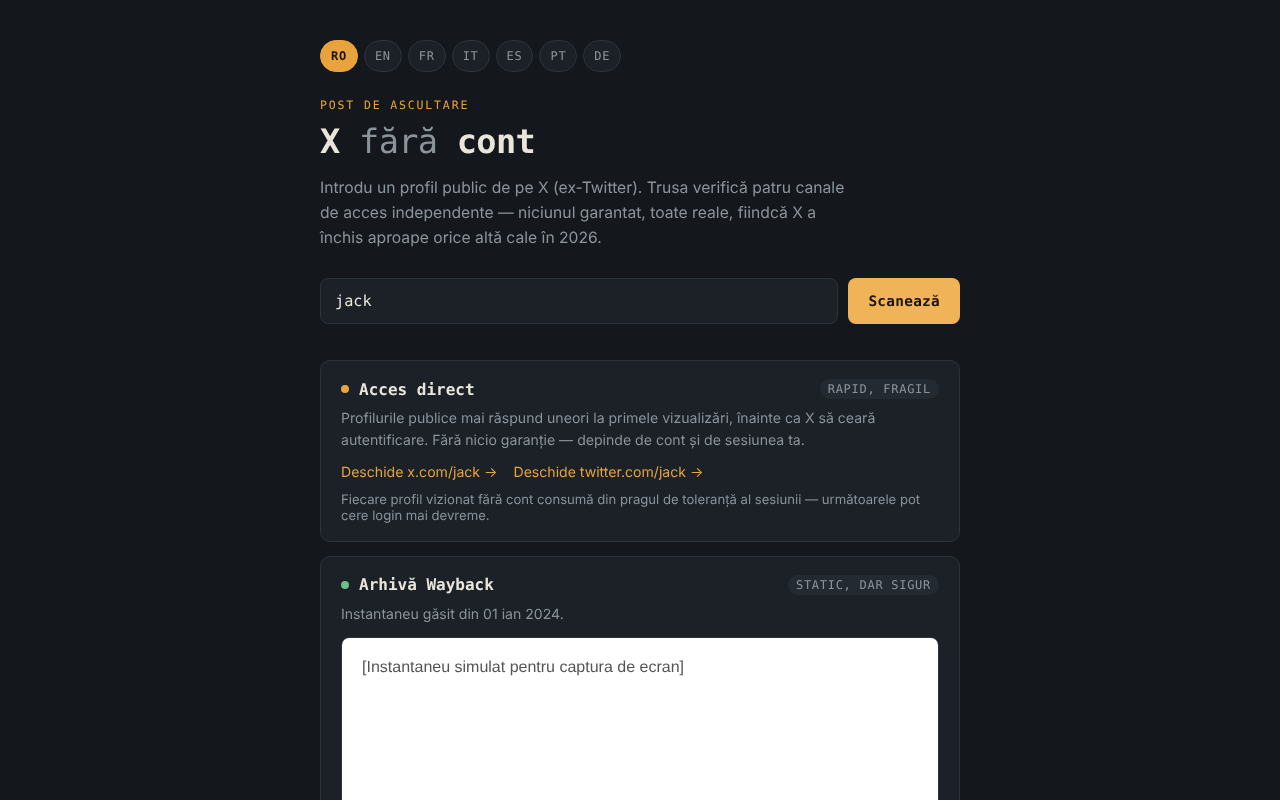
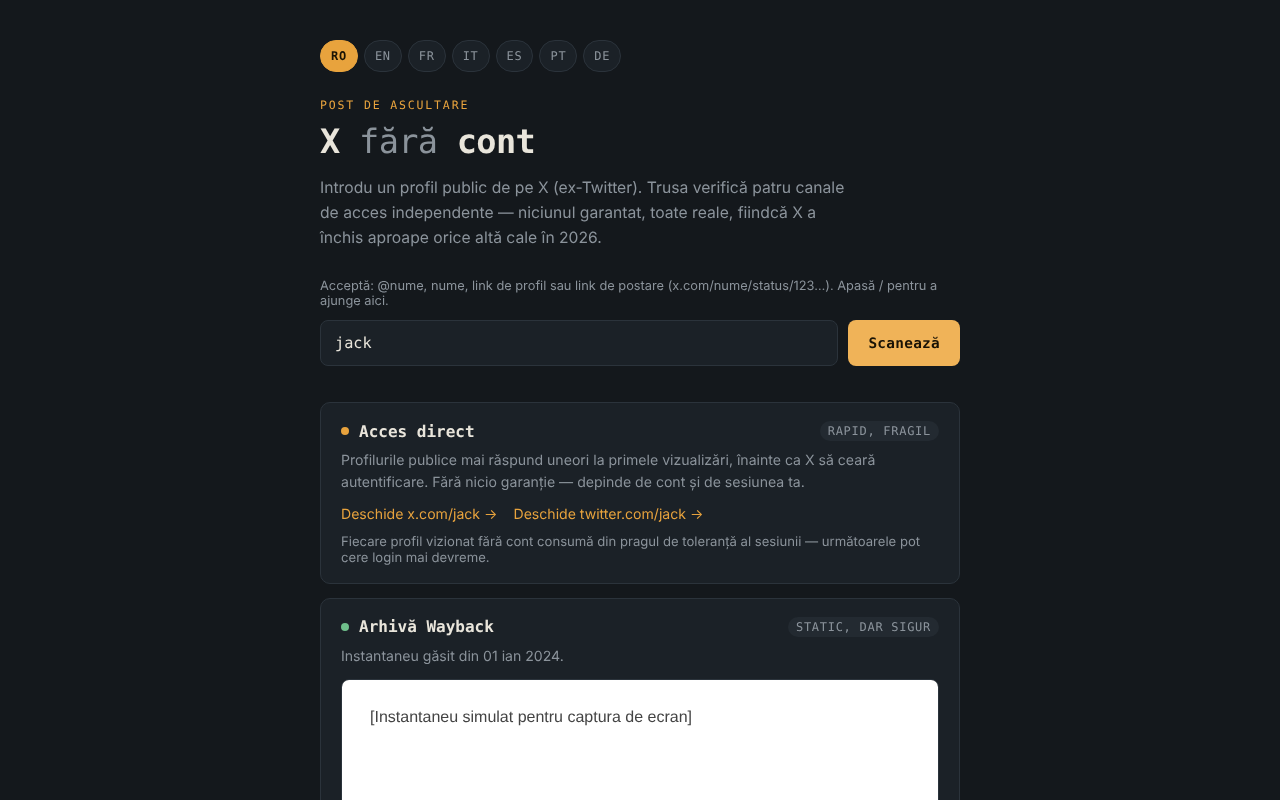
Runda 6 (11 octombrie 2026): reparații și îmbunătățiri
Claude-Session: https://claude.ai/code/session_01D2sCEb3hy3nutYexhUfQFs

Changed region(s): [[0.25, 0.3438, 0.75, 0.9062], [0.625, 0.7188, 0.7188, 0.75]]

diff --git a/index.html b/index.html
@@ -11,7 +11,7 @@
 <meta charset="UTF-8">
 <meta name="viewport" content="width=device-width, initial-scale=1.0">
 <meta name="color-scheme" content="dark">
-<meta http-equiv="Content-Security-Policy" content="default-src 'none'; script-src 'unsafe-inline'; style-src 'unsafe-inline'; connect-src https://archive.org https://web.archive.org; frame-src https://web.archive.org https://*.archive.org; base-uri 'none'; form-action 'none'">
+<meta http-equiv="Content-Security-Policy" content="default-src 'none'; script-src 'sha256-JCEZe5mm+Ku1JaV1E7NoF3UU0oDtzWo3bZGD6wNI0ZM='; style-src 'unsafe-inline'; connect-src https://archive.org https://web.archive.org; frame-src https://web.archive.org https://*.archive.org; base-uri 'none'; form-action 'none'">
 <meta name="referrer" content="no-referrer">
 <meta name="description" content="Set de unelte pentru vizualizarea profilurilor publice X (ex-Twitter) fără cont: link direct, arhivă Wayback, index de căutare, oglinzi Nitter. 7 limbi, un singur fișier HTML, fără telemetrie.">
 <meta property="og:title" content="X fără cont — post de ascultare">
@@ -102,6 +102,7 @@
     max-width: 54ch;
   }
 
+  .inputhint { font-size: 0.8rem; color: var(--text-muted); margin: 0 0 12px; }
   .tuner { display: flex; gap: 10px; margin-bottom: 36px; }
 
   .tuner input {
@@ -283,6 +284,7 @@
       <p class="lede" id="txtLede"></p>
     </header>
 
+    <p class="inputhint" id="txtInputHint"></p>
     <form class="tuner" id="tunerForm">
       <label for="handleInput" class="visually-hidden" id="txtInputLabel"></label>
       <input type="text" id="handleInput" autocomplete="off" autocapitalize="off" spellcheck="false" maxlength="200" aria-describedby="handleError">
@@ -744,7 +746,7 @@
     return "ro";
   }
 
-  var state = { lang: detectLang(), handle: "", archiveStatus: "idle", archiveSnap: null };
+  var state = { lang: detectLang(), handle: "", status: "", archiveStatus: "idle", archiveSnap: null };
 
   var langbar = document.getElementById("langbar");
   var form = document.getElementById("tunerForm");
@@ -793,32 +795,40 @@
   var txtWhyP1 = document.getElementById("txtWhyP1");
   var txtWhyP2 = document.getElementById("txtWhyP2");
   var txtFooter = document.getElementById("txtFooter");
+  var txtInputHint = document.getElementById("txtInputHint");
 
   var EXTRA = {
-    ro: { invalid: "Nume de profil invalid. Folosește 1–15 litere, cifre sau _ (ex. @nume).", error: "Nu am putut interoga archive.org (rețea indisponibilă sau răspuns neașteptat). Poți încerca direct în Wayback Machine." },
-    en: { invalid: "Invalid profile name. Use 1–15 letters, digits or _ (e.g. @name).", error: "Could not query archive.org (network unavailable or unexpected reply). You can try the Wayback Machine directly." },
-    fr: { invalid: "Nom de profil invalide. Utilisez 1 à 15 lettres, chiffres ou _ (ex. @nom).", error: "Impossible d'interroger archive.org (réseau indisponible ou réponse inattendue). Vous pouvez essayer directement la Wayback Machine." },
-    it: { invalid: "Nome profilo non valido. Usa da 1 a 15 lettere, cifre o _ (es. @nome).", error: "Impossibile interrogare archive.org (rete non disponibile o risposta inattesa). Puoi provare direttamente la Wayback Machine." },
-    es: { invalid: "Nombre de perfil no válido. Usa de 1 a 15 letras, cifras o _ (p. ej. @nombre).", error: "No se pudo consultar archive.org (red no disponible o respuesta inesperada). Puedes probar directamente la Wayback Machine." },
-    pt: { invalid: "Nome de perfil inválido. Use de 1 a 15 letras, dígitos ou _ (ex. @nome).", error: "Não foi possível consultar o archive.org (rede indisponível ou resposta inesperada). Podes tentar diretamente a Wayback Machine." },
-    de: { invalid: "Ungültiger Profilname. Verwende 1–15 Buchstaben, Ziffern oder _ (z. B. @name).", error: "archive.org konnte nicht abgefragt werden (Netzwerk nicht verfügbar oder unerwartete Antwort). Du kannst die Wayback Machine direkt versuchen." }
+    ro: { inputHint: "Acceptă: @nume, nume, link de profil sau link de postare (x.com/nume/status/123…). Apasă / pentru a ajunge aici.", allCaptures: "Toate capturile arhivate →", notFoundPost: "Nicio arhivă găsită pentru această postare. Poți cere una chiar tu, mai jos.", invalid: "Nume de profil invalid. Folosește 1–15 litere, cifre sau _ (ex. @nume).", error: "Nu am putut interoga archive.org (rețea indisponibilă sau răspuns neașteptat). Poți încerca direct în Wayback Machine." },
+    en: { inputHint: "Accepts: @name, name, a profile link or a post link (x.com/name/status/123…). Press / to jump here.", allCaptures: "All archived captures →", notFoundPost: "No archive found for this post. You can request one yourself, below.", invalid: "Invalid profile name. Use 1–15 letters, digits or _ (e.g. @name).", error: "Could not query archive.org (network unavailable or unexpected reply). You can try the Wayback Machine directly." },
+    fr: { inputHint: "Accepté : @nom, nom, lien de profil ou lien de publication (x.com/nom/status/123…). Appuyez sur / pour venir ici.", allCaptures: "Toutes les captures archivées →", notFoundPost: "Aucune archive trouvée pour cette publication. Vous pouvez en demander une vous-même, ci-dessous.", invalid: "Nom de profil invalide. Utilisez 1 à 15 lettres, chiffres ou _ (ex. @nom).", error: "Impossible d'interroger archive.org (réseau indisponible ou réponse inattendue). Vous pouvez essayer directement la Wayback Machine." },
+    it: { inputHint: "Accettati: @nome, nome, link del profilo o link di un post (x.com/nome/status/123…). Premi / per arrivare qui.", allCaptures: "Tutte le copie archiviate →", notFoundPost: "Nessun archivio trovato per questo post. Puoi richiederne uno tu stesso, qui sotto.", invalid: "Nome profilo non valido. Usa da 1 a 15 lettere, cifre o _ (es. @nome).", error: "Impossibile interrogare archive.org (rete non disponibile o risposta inattesa). Puoi provare direttamente la Wayback Machine." },
+    es: { inputHint: "Se acepta: @nombre, nombre, enlace de perfil o enlace de publicación (x.com/nombre/status/123…). Pulsa / para venir aquí.", allCaptures: "Todas las capturas archivadas →", notFoundPost: "No se encontró ningún archivo de esta publicación. Puedes solicitar uno tú mismo, abajo.", invalid: "Nombre de perfil no válido. Usa de 1 a 15 letras, cifras o _ (p. ej. @nombre).", error: "No se pudo consultar archive.org (red no disponible o respuesta inesperada). Puedes probar directamente la Wayback Machine." },
+    pt: { inputHint: "Aceita: @nome, nome, ligação de perfil ou ligação de publicação (x.com/nome/status/123…). Prime / para vir aqui.", allCaptures: "Todas as capturas arquivadas →", notFoundPost: "Nenhum arquivo encontrado para esta publicação. Podes pedir um tu mesmo, abaixo.", invalid: "Nome de perfil inválido. Use de 1 a 15 letras, dígitos ou _ (ex. @nome).", error: "Não foi possível consultar o archive.org (rede indisponível ou resposta inesperada). Podes tentar diretamente a Wayback Machine." },
+    de: { inputHint: "Akzeptiert: @name, name, Profil-Link oder Post-Link (x.com/name/status/123…). Mit / springst du hierher.", allCaptures: "Alle archivierten Schnappschüsse →", notFoundPost: "Kein Archiv für diesen Beitrag gefunden. Du kannst unten selbst eines anfordern.", invalid: "Ungültiger Profilname. Verwende 1–15 Buchstaben, Ziffern oder _ (z. B. @name).", error: "archive.org konnte nicht abgefragt werden (Netzwerk nicht verfügbar oder unerwartete Antwort). Du kannst die Wayback Machine direkt versuchen." }
   };
 
-  // Returns a valid X handle ([A-Za-z0-9_]{1,15}) or "" if input is empty/invalid.
-  function extractHandle(raw) {
+  // Names that are X site sections, not profiles.
+  var RESERVED = /^(i|home|explore|search|hashtag|notifications|messages|settings|login|logout|signup|intent|share|compose|tos|privacy|about|download|jobs|account|oauth|en|ro|fr|it|es|pt|de)$/i;
+
+  // Returns {handle, status} (handle = [A-Za-z0-9_]{1,15}; status = digits or "") or null if invalid.
+  function extractTarget(raw) {
     var s = (raw || "").trim();
-    if (!s) return "";
+    if (!s) return null;
+    var status = "";
     if (/^(https?:\/\/)?((www|mobile)\.)?(x|twitter)\.com\//i.test(s) || /^https?:\/\//i.test(s)) {
       try {
         var u = new URL(/^https?:\/\//i.test(s) ? s : "https://" + s);
         var parts = u.pathname.split("/").filter(Boolean);
         s = parts[0] || "";
-      } catch (e) { return ""; }
+        if ((parts[1] === "status" || parts[1] === "statuses") && /^\d{1,25}$/.test(parts[2] || "")) status = parts[2];
+      } catch (e) { return null; }
     }
     s = s.replace(/^@/, "");
     s = s.split(/[\/?#]/)[0].trim();
-    return /^[A-Za-z0-9_]{1,15}$/.test(s) ? s : "";
+    if (!/^[A-Za-z0-9_]{1,15}$/.test(s) || RESERVED.test(s)) return null;
+    return { handle: s, status: status };
   }
+  function extractHandle(raw) { var r = extractTarget(raw); return r ? r.handle : ""; }
 
   // Accept only https snapshots hosted on web.archive.org (API may return http:// URLs).
   function safeSnapshotUrl(raw) {
@@ -853,18 +863,27 @@
     var t = STRINGS[state.lang];
     var h = state.handle;
     var encHandle = encodeURIComponent(h);
+    var pathText = h + (state.status ? "/status/" + state.status : "");
+    var path = encHandle + (state.status ? "/status/" + state.status : "");
 
-    linkX.href = "https://x.com/" + encHandle;
-    linkX.textContent = t.direct.openX(h);
-    linkTwitter.href = "https://twitter.com/" + encHandle;
-    linkTwitter.textContent = t.direct.openTwitter(h);
+    linkX.href = "https://x.com/" + path;
+    linkX.textContent = t.direct.openX(pathText);
+    linkTwitter.href = "https://twitter.com/" + path;
+    linkTwitter.textContent = t.direct.openTwitter(pathText);
 
-    var q = encodeURIComponent('site:x.com OR site:twitter.com "' + h + '"');
+    var q = encodeURIComponent(state.status
+      ? 'site:x.com/' + h + '/status/' + state.status + ' OR site:twitter.com/' + h + '/status/' + state.status
+      : 'site:x.com OR site:twitter.com "' + h + '"');
     linkGoogle.href = "https://www.google.com/search?q=" + q;
     linkBing.href = "https://www.bing.com/search?q=" + q;
 
-    nitterHandlePreview.textContent = h;
+    nitterHandlePreview.textContent = pathText;
   }
+
+  function targetUrl(host) {
+    return "https://" + host + "/" + encodeURIComponent(state.handle) + (state.status ? "/status/" + state.status : "");
+  }
+  function allCapturesUrl() { return "https://web.archive.org/web/*/" + targetUrl("x.com"); }
 
   function renderArchiveStatus() {
     var t = STRINGS[state.lang];
@@ -895,27 +914,29 @@
       frameCaption.hidden = false;
       if (archiveFrame.getAttribute("src") !== safeUrl) archiveFrame.src = safeUrl;
       archiveActions.appendChild(makeLink(safeUrl, t.archive.openWayback));
+      archiveActions.appendChild(makeLink(allCapturesUrl(), x.allCaptures));
     } else {
       archiveFrameWrap.hidden = true;
       frameCaption.hidden = true;
       archiveFrame.removeAttribute("src");
-      var saveUrl = "https://web.archive.org/save/https://x.com/" + encodeURIComponent(state.handle);
+      var saveUrl = "https://web.archive.org/save/" + targetUrl("x.com");
       if (state.archiveStatus === "error") {
         archiveDot.className = "dot dot--red";
         archiveDesc.textContent = x.error;
-        archiveActions.appendChild(makeLink("https://web.archive.org/web/2/https://x.com/" + encodeURIComponent(state.handle), t.archive.openWayback));
+        archiveActions.appendChild(makeLink("https://web.archive.org/web/2/" + targetUrl("x.com"), t.archive.openWayback));
       } else {
         archiveDot.className = "dot dot--red";
-        archiveDesc.textContent = t.archive.notFound;
+        archiveDesc.textContent = state.status ? x.notFoundPost : t.archive.notFound;
         archiveActions.appendChild(makeLink(saveUrl, t.archive.requestNew));
       }
+      archiveActions.appendChild(makeLink(allCapturesUrl(), x.allCaptures));
     }
   }
 
   var TIMEOUT_MS = 8000;
   var archiveCtl = null;
 
-  async function checkArchive(handle) {
+  async function checkArchive(handle, status) {
     // Cancel any in-flight lookup so a stale answer can never overwrite a newer one.
     if (archiveCtl) archiveCtl.abort();
     var ctl = new AbortController();
@@ -926,7 +947,8 @@
     state.archiveSnap = null;
     renderArchiveStatus();
 
-    var targets = ["https://x.com/" + handle, "https://twitter.com/" + handle];
+    var suffix = status ? "/status/" + status : "";
+    var targets = ["https://x.com/" + handle + suffix, "https://twitter.com/" + handle + suffix];
     var found = null, failures = 0;
 
     for (var i = 0; i < targets.length; i++) {
@@ -991,6 +1013,7 @@
     txtWhyP2.textContent = t.why.p2;
 
     txtFooter.textContent = t.footer;
+    txtInputHint.textContent = EXTRA[state.lang].inputHint;
 
     if (state.handle) applyHandleLinks();
     renderArchiveStatus();
@@ -1004,7 +1027,8 @@
 
   form.addEventListener("submit", function (e) {
     e.preventDefault();
-    var handle = extractHandle(input.value);
+    var tgt = extractTarget(input.value);
+    var handle = tgt ? tgt.handle : "";
     var errEl = document.getElementById("handleError");
     if (!handle) {
       input.setAttribute("aria-invalid", "true");
@@ -1017,9 +1041,10 @@
     errEl.className = "visually-hidden";
     errEl.textContent = "";
     state.handle = handle;
+    state.status = tgt.status;
     applyHandleLinks();
     channels.hidden = false;
-    checkArchive(handle);
+    checkArchive(handle, tgt.status);
   });
 
   langbar.addEventListener("click", function (e) {
@@ -1029,6 +1054,14 @@
     if (SUPPORTED.indexOf(lang) === -1) return;
     state.lang = lang;
     render();
+  });
+
+  document.addEventListener("keydown", function (e) {
+    if (e.key !== "/" || e.ctrlKey || e.metaKey || e.altKey) return;
+    var tg = e.target && e.target.tagName;
+    if (tg === "INPUT" || tg === "TEXTAREA" || tg === "SELECT") return;
+    e.preventDefault();
+    input.focus();
   });
 
   render();
